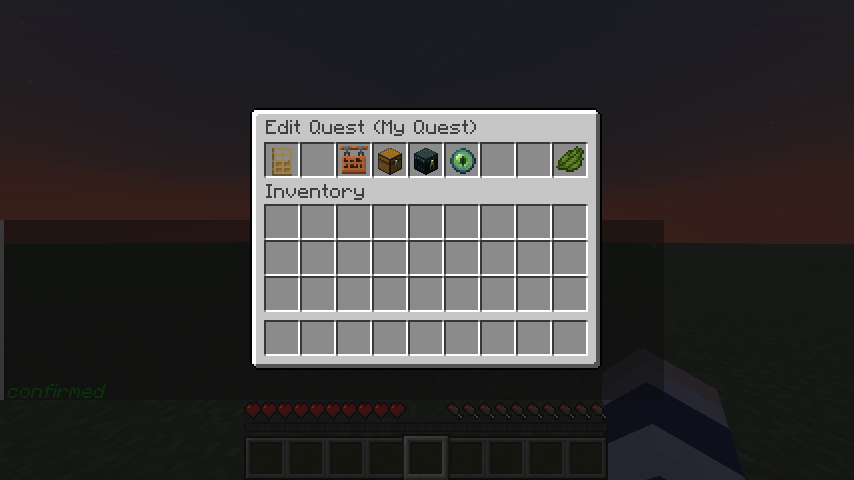
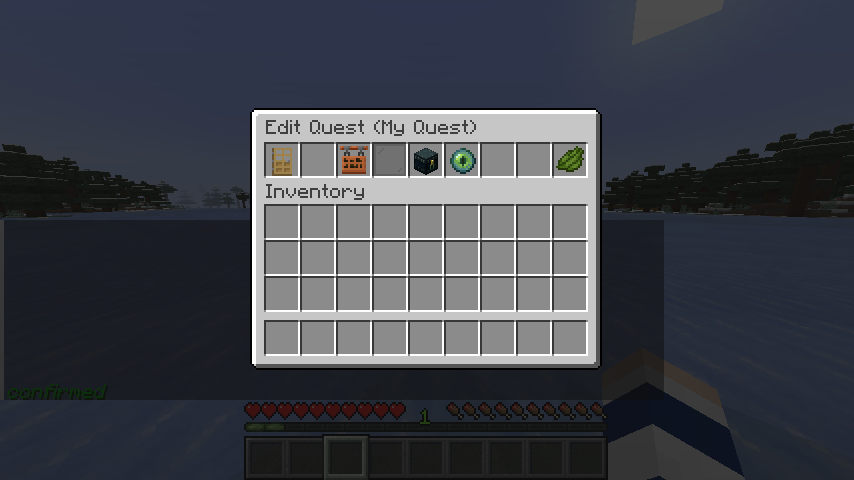
Add lock for stages editor when no NPCs in the quest (#94)
* add block to Quest Stages when no NPCs

* update edit-quest-menu image in tutorial

the quest stages icon no longer shows as a chest at this point, so to avoid confusion this image is replaced with how it looks after this change.

diff --git a/src/main/java/playerquests/builder/gui/component/GUISlot.java b/src/main/java/playerquests/builder/gui/component/GUISlot.java
@@ -223,6 +223,7 @@ public class GUISlot {
      * Sets the hover subtitle/description for this instance of {@link GUISlot}.
      * <p>
      * Includes some processing/formatting of the label.
+     * To clear the description set as a space string: " "
      * @param description the description of the button
      * @return the modified instance of the slot builder
      */
@@ -231,7 +232,7 @@ public class GUISlot {
 
         // Evaluate label for error prefix and avoid malformatting labels
         description = String.format("%s%s%s%s", 
-            ChatColor.RESET, // remove the italics set when changing from default item display name
+            description.isBlank() ? "" : ChatColor.RESET, // remove the italics set when changing from default item display name
             this.hasError() ? errorDescription : "", // add an error notice if applicable
             this.hasError() && !description.equals("") ? "" : "", // put whitespace if applicable
             this.hasError() && description.equals("") ? description.trim() : description // add the real label if applicable

diff --git a/src/main/java/playerquests/builder/gui/dynamic/Dynamicquesteditor.java b/src/main/java/playerquests/builder/gui/dynamic/Dynamicquesteditor.java
@@ -73,15 +73,22 @@ public class Dynamicquesteditor extends GUIDynamic {
                 )
             );
 
-        new GUISlot(gui, 4) // view quest stages button
-            .setItem("CHEST")
+        GUISlot stagesSlot = new GUISlot(gui, 4) // view quest stages button (blocked)
+            .setItem("GRAY_STAINED_GLASS_PANE")
             .setLabel("Quest Stages")
+            .setDescription("Add an NPC to add Stages");
+        
+        if (!questBuilder.getQuestNPCs().isEmpty()) { // view quest stages button (unblocked)
+            stagesSlot.setItem("CHEST")
+            .setLabel("Quest Stages")
+            .setDescription(" ") // clear the description
             .addFunction(
                 new UpdateScreen(
                     new ArrayList<>(Arrays.asList("queststages")), 
                     director
                 )
-            );
+            ); 
+        }
 
         new GUISlot(gui, 5) // view quest NPCs button
             .setItem("ENDER_CHEST")

diff --git a/src/main/java/playerquests/product/GUI.java b/src/main/java/playerquests/product/GUI.java
@@ -136,6 +136,7 @@ public class GUI {
             // Edit the ItemMeta
             itemMeta.setDisplayName(slot.getLabel()); // set the slot label
 
+            itemMeta.setLore(null);
             if (!slot.getDescription().isBlank()) {
                 itemMeta.setLore( // set the slot description
                     Arrays.asList(slot.getDescription()) // list: each line of the description
